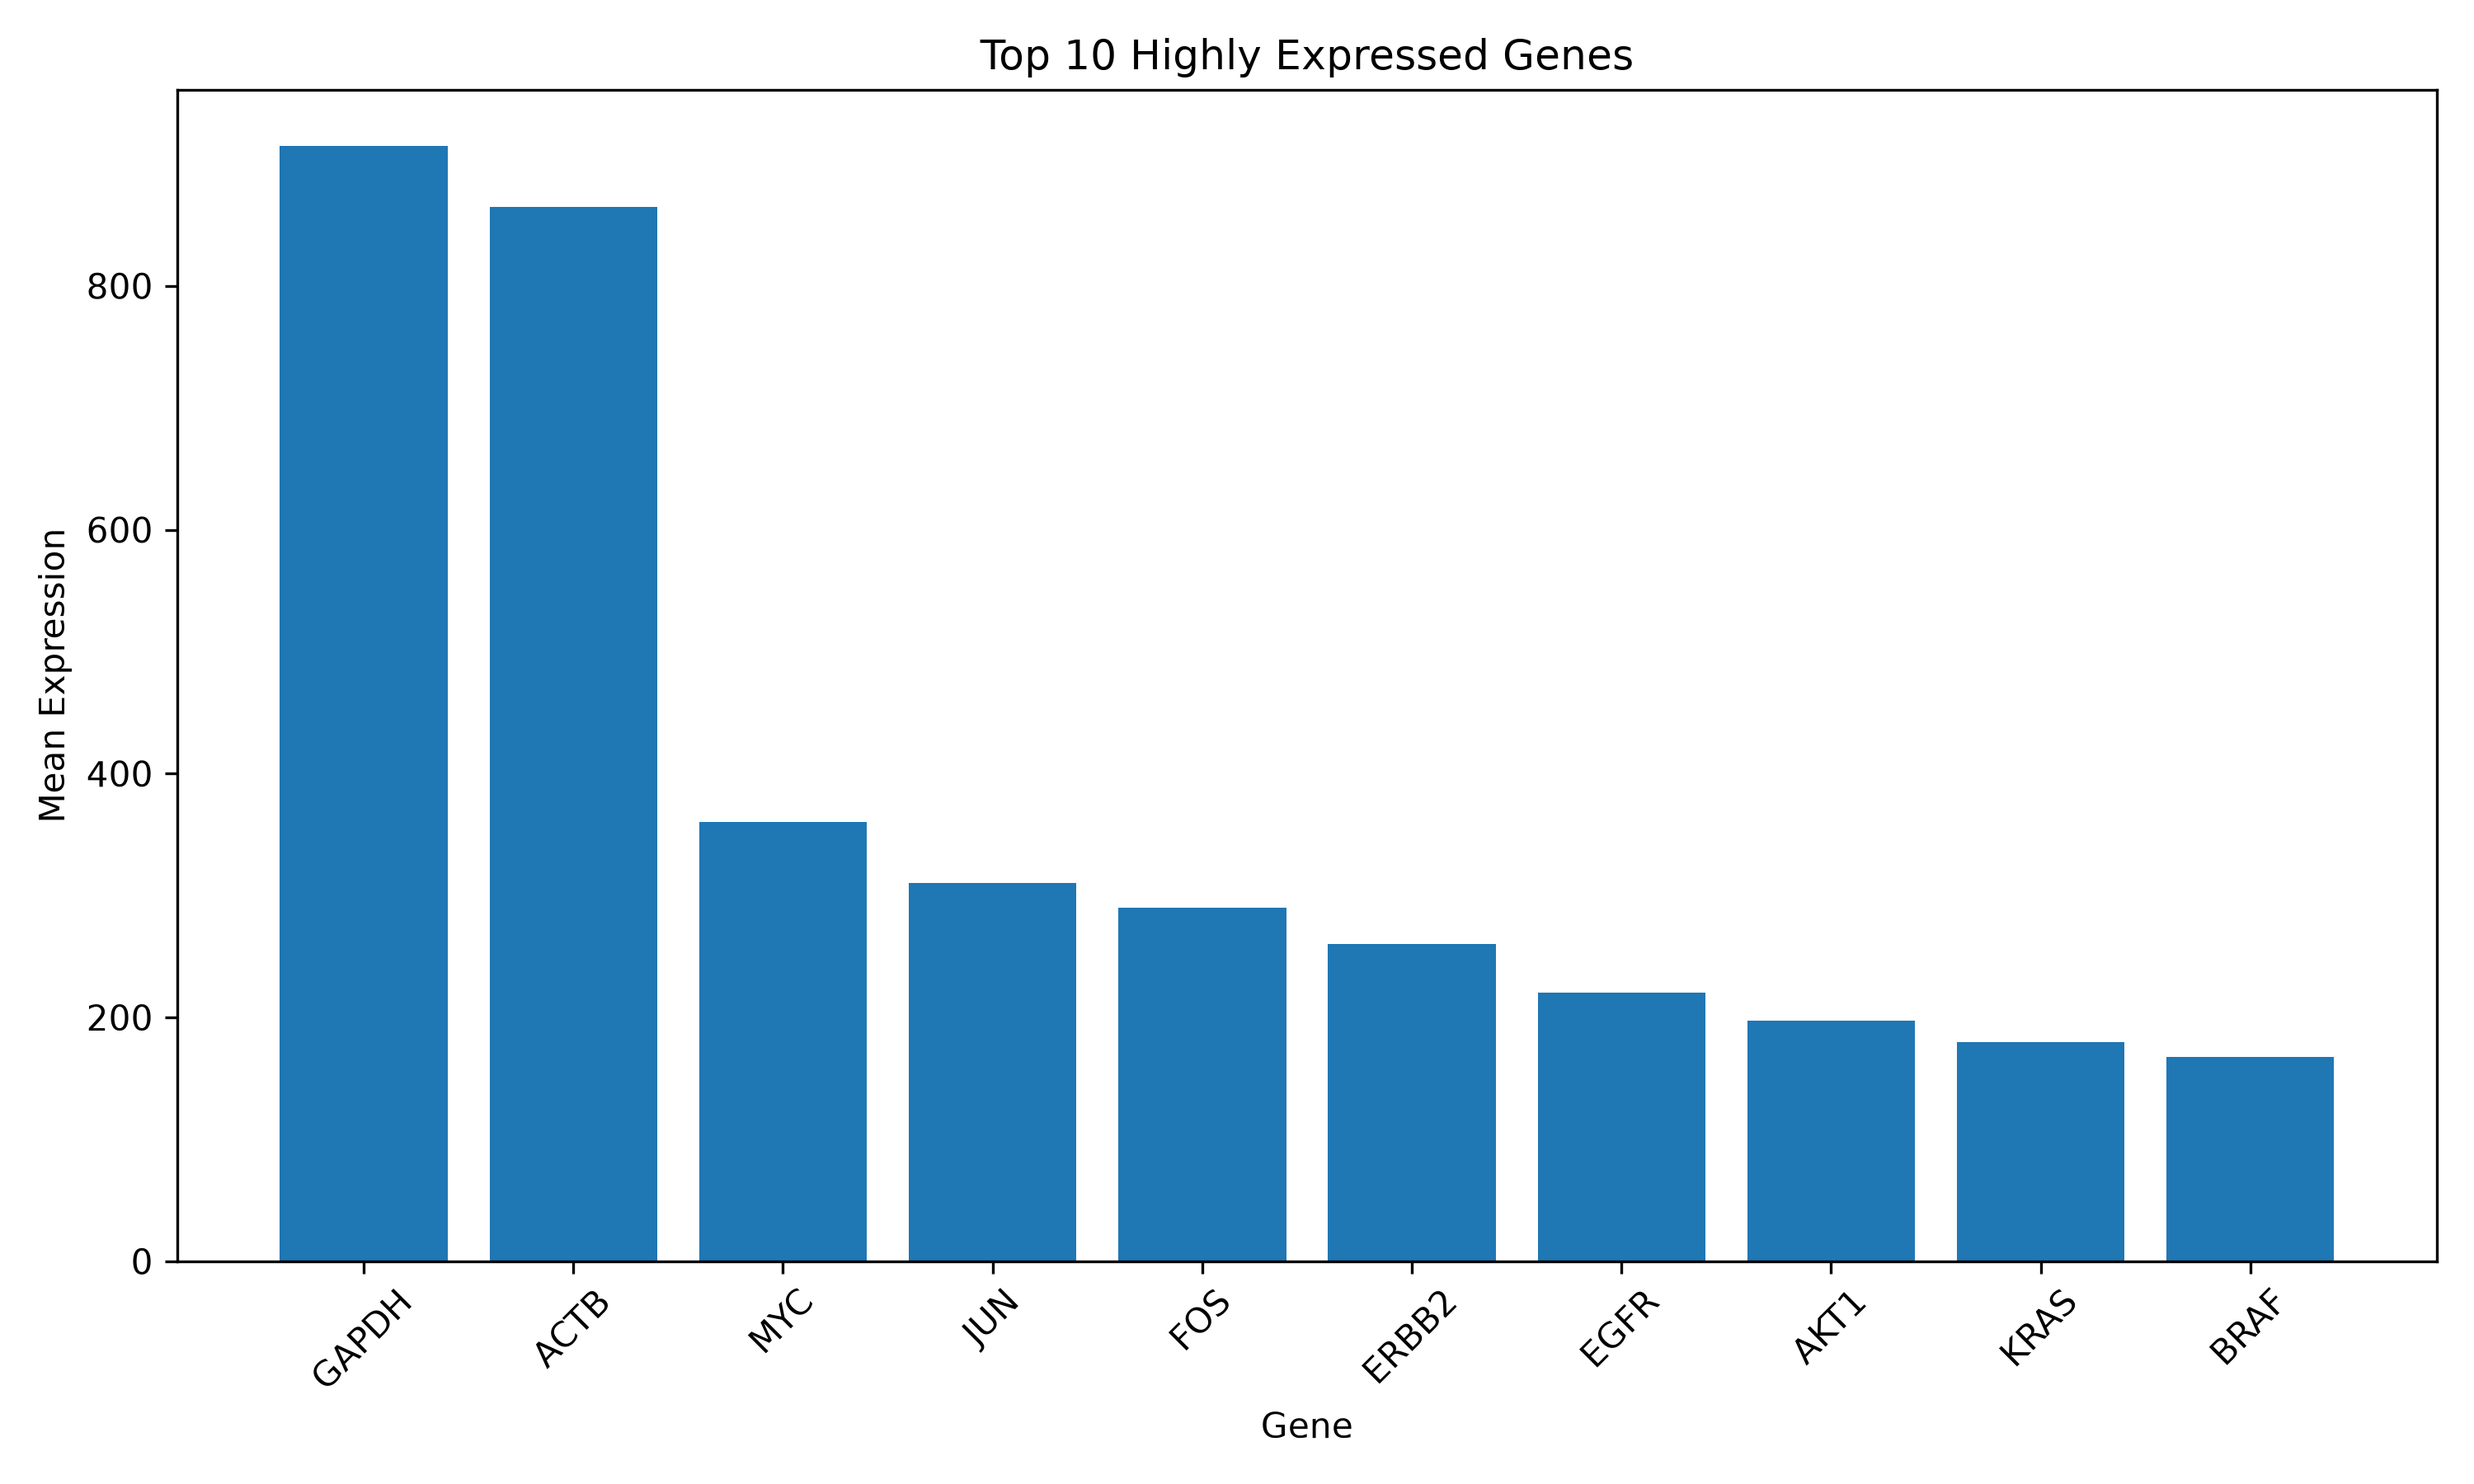
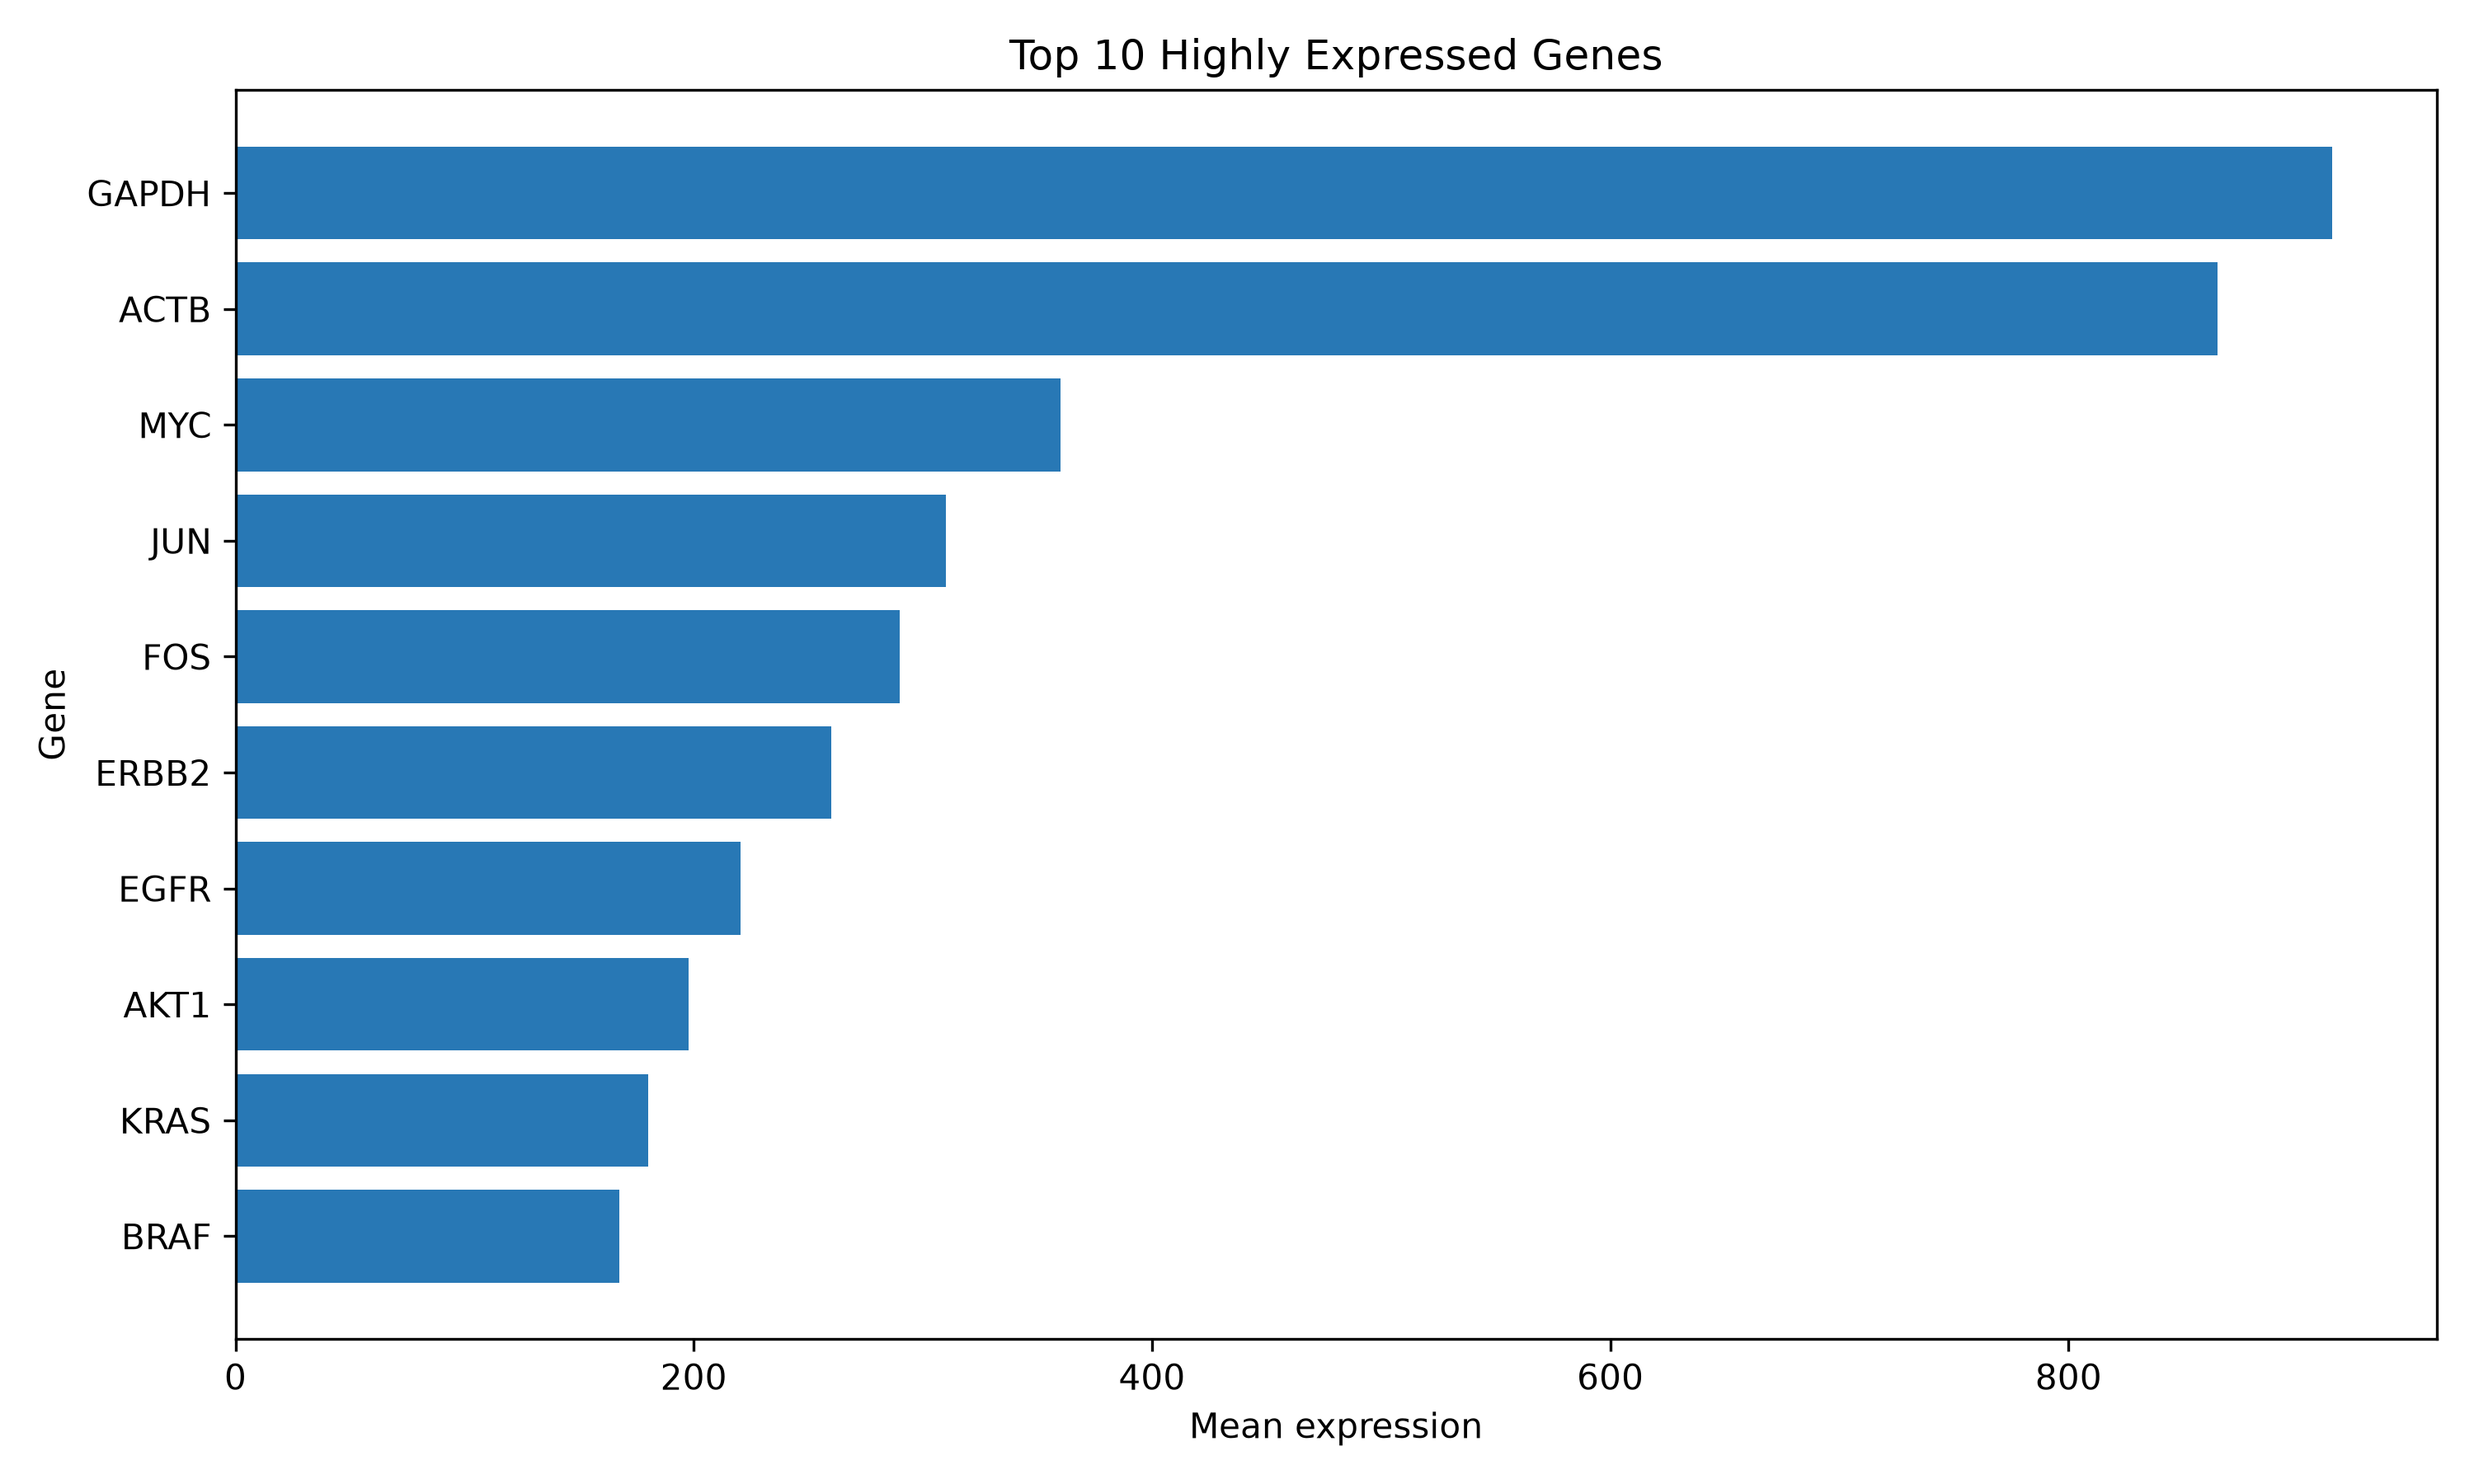
Update gene expression analysis project

Changed region(s): [[0.0, 0.0933, 0.992, 0.9644], [0.403, 0.0311, 0.682, 0.0622]]

diff --git a/gene_expression_analysis.py b/gene_expression_analysis.py
@@ -11,58 +11,46 @@ DATA_FILE = PROJECT_ROOT / "data" / "gene_expression.csv"
 RESULTS_DIR = PROJECT_ROOT / "results"
 
 
-def main():
+def main() -> None:
     RESULTS_DIR.mkdir(exist_ok=True)
 
-    df = pd.read_csv(DATA_FILE)
+    data = pd.read_csv(DATA_FILE)
+    if "Gene" not in data.columns:
+        raise ValueError("The input CSV must contain a 'Gene' column.")
 
-    print("\n========== DATASET INFORMATION ==========\n")
-    print("Dataset shape:", df.shape)
-    print("\nFirst 5 rows:")
-    print(df.head())
-    print("\nColumn names:")
-    print(df.columns.tolist())
+    expression_columns = [column for column in data.columns if column != "Gene"]
+    if not expression_columns:
+        raise ValueError("The input CSV must contain at least one sample column.")
 
-    print("\n========== MISSING VALUES ==========\n")
-    print(df.isnull().sum())
-
-    df = df.drop_duplicates(subset="Gene")
-    expression_columns = df.columns[1:]
-    df[expression_columns] = df[expression_columns].apply(
+    data[expression_columns] = data[expression_columns].apply(
         pd.to_numeric, errors="coerce"
     )
-    df["Mean_Expression"] = df[expression_columns].mean(axis=1)
-
-    ranked_genes = df.sort_values(
+    data = data.drop_duplicates(subset="Gene")
+    data["Mean_Expression"] = data[expression_columns].mean(axis=1)
+    ranked_genes = data.dropna(subset=["Mean_Expression"]).sort_values(
         by="Mean_Expression", ascending=False
     )
-    top_10_genes = ranked_genes.head(10)
-    selected_columns = ["Gene", "Mean_Expression"]
-
-    print("\n========== TOP 10 EXPRESSED GENES ==========\n")
-    print(top_10_genes[selected_columns].to_string(index=False))
+    top_10_genes = ranked_genes.head(10)[["Gene", "Mean_Expression"]]
 
     output_file = RESULTS_DIR / "top_10_genes.csv"
-    top_10_genes[selected_columns].to_csv(output_file, index=False)
-    print("\nTop 10 results saved to:", output_file)
+    top_10_genes.to_csv(output_file, index=False)
 
+    chart = top_10_genes.sort_values("Mean_Expression")
     plt.figure(figsize=(10, 6))
-    plt.bar(top_10_genes["Gene"], top_10_genes["Mean_Expression"])
-    plt.xlabel("Gene")
-    plt.ylabel("Mean Expression")
+    plt.barh(chart["Gene"], chart["Mean_Expression"], color="#2878b5")
+    plt.xlabel("Mean expression")
+    plt.ylabel("Gene")
     plt.title("Top 10 Highly Expressed Genes")
-    plt.xticks(rotation=45)
     plt.tight_layout()
-
     plot_file = RESULTS_DIR / "top_10_genes.png"
     plt.savefig(plot_file, dpi=300)
     plt.close()
-    print("Plot saved to:", plot_file)
 
-    print("\n========== ANALYSIS COMPLETED ==========")
-    print("Total genes analyzed:", len(df))
-    print("Top 10 genes identified successfully.")
-    print("\nResults available in the 'results' folder.")
+    print(f"Dataset shape: {data.shape[0]} genes x {len(expression_columns)} samples")
+    print("\nTop 10 expressed genes:\n")
+    print(top_10_genes.to_string(index=False))
+    print(f"\nSaved table: {output_file}")
+    print(f"Saved plot: {plot_file}")
 
 
 if __name__ == "__main__":

diff --git a/README.md b/README.md
@@ -1,80 +1,28 @@
-# Gene Expression Analysis Using Python
+# Gene Expression Analysis
 
-## Project Overview
+This project analyzes a sample gene-expression CSV and identifies the top 10 expressed genes by average expression across all sample columns.
 
-This beginner-level bioinformatics project analyzes a demonstration gene expression CSV file and identifies the top 10 genes by average expression across five samples.
+## Method
 
-The analysis uses Pandas for data processing and Matplotlib for visualization.
+1. Load `data/gene_expression.csv`.
+2. Convert sample values to numeric values.
+3. Remove duplicate gene identifiers.
+4. Calculate the mean expression for each gene.
+5. Sort genes from highest to lowest mean expression.
+6. Save the top 10 genes as a CSV table and a bar chart.
 
-## Workflow
+## Run
 
-```text
-Gene Expression CSV
-        |
-Data Loading and Inspection
-        |
-Missing Value Check and Cleaning
-        |
-Mean Expression Calculation
-        |
-Gene Ranking
-        |
-Top 10 Gene Identification
-        |
-Visualization and Result Export
-```
-
-## Project Structure
+From this project folder:
 
 ```text
-gene-expression-analysis/
-|
-|-- data/
-|   `-- gene_expression.csv
-|
-|-- results/
-|   |-- top_10_genes.csv
-|   `-- top_10_genes.png
-|
-|-- gene_expression_analysis.py
-|-- requirements.txt
-`-- README.md
+py -3 -m pip install -r requirements.txt
+py -3 gene_expression_analysis.py
 ```
-
-## Dataset
-
-The input CSV contains gene identifiers and expression values for five demonstration samples. The values are intended for learning and workflow demonstration only.
-
-## How to Run
-
-1. Install the dependencies:
-
-        ```bash
-        py -3 -m pip install -r requirements.txt
-        ```
-
-2. Run the analysis from the project folder:
-
-        ```bash
-        py -3 gene_expression_analysis.py
-        ```
-
-The script checks missing values, removes duplicate gene identifiers, converts expression columns to numeric values, calculates each gene's mean expression, selects the top 10 genes, and saves the results.
 
 ## Outputs
 
-- `results/top_10_genes.csv` contains the top 10 genes and their mean expression values.
-- `results/top_10_genes.png` contains a bar chart of the ranked genes.
+- `results/top_10_genes.csv`: ranked genes and mean expression values.
+- `results/top_10_genes.png`: visualization of the ranking.
 
-## Important Note
-
-This is not a differential gene expression pipeline. Research-grade RNA-seq or microarray analysis requires additional quality control, normalization, statistical testing, and multiple-testing correction. The demonstration values should not be used for biological conclusions.
-
-## Google Colab
-
-The same workflow can be run in Google Colab by uploading `data/gene_expression.csv`, installing or importing `pandas` and `matplotlib`, and executing the analysis steps in notebook cells.
-
-## Author
-
-Pavan Alapati  
-M.Sc. Bioinformatics and Computational Biology
+This is a descriptive expression-ranking exercise, not a differential-expression analysis. Research-grade RNA-seq analysis would additionally require quality control, normalization, statistical testing, and multiple-testing correction.
